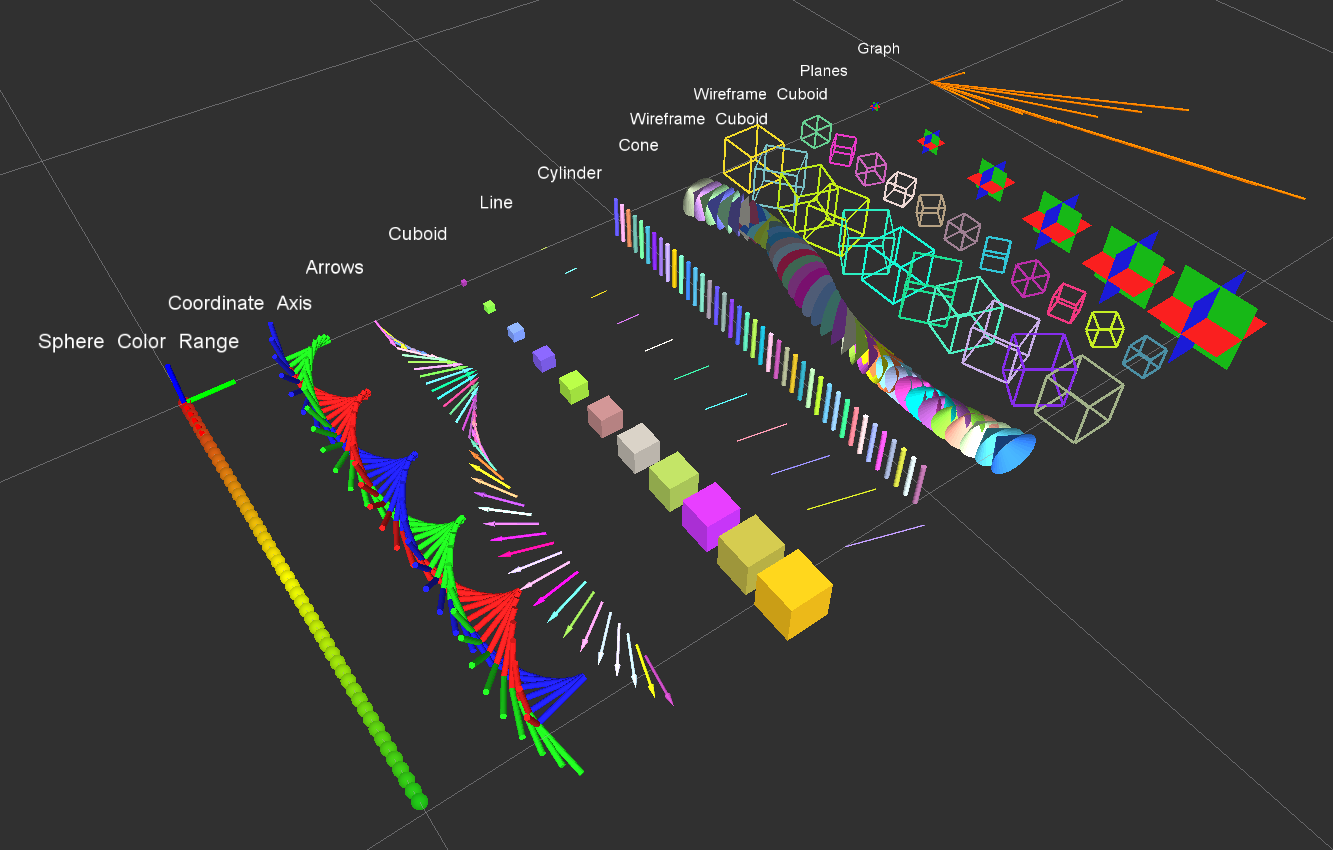
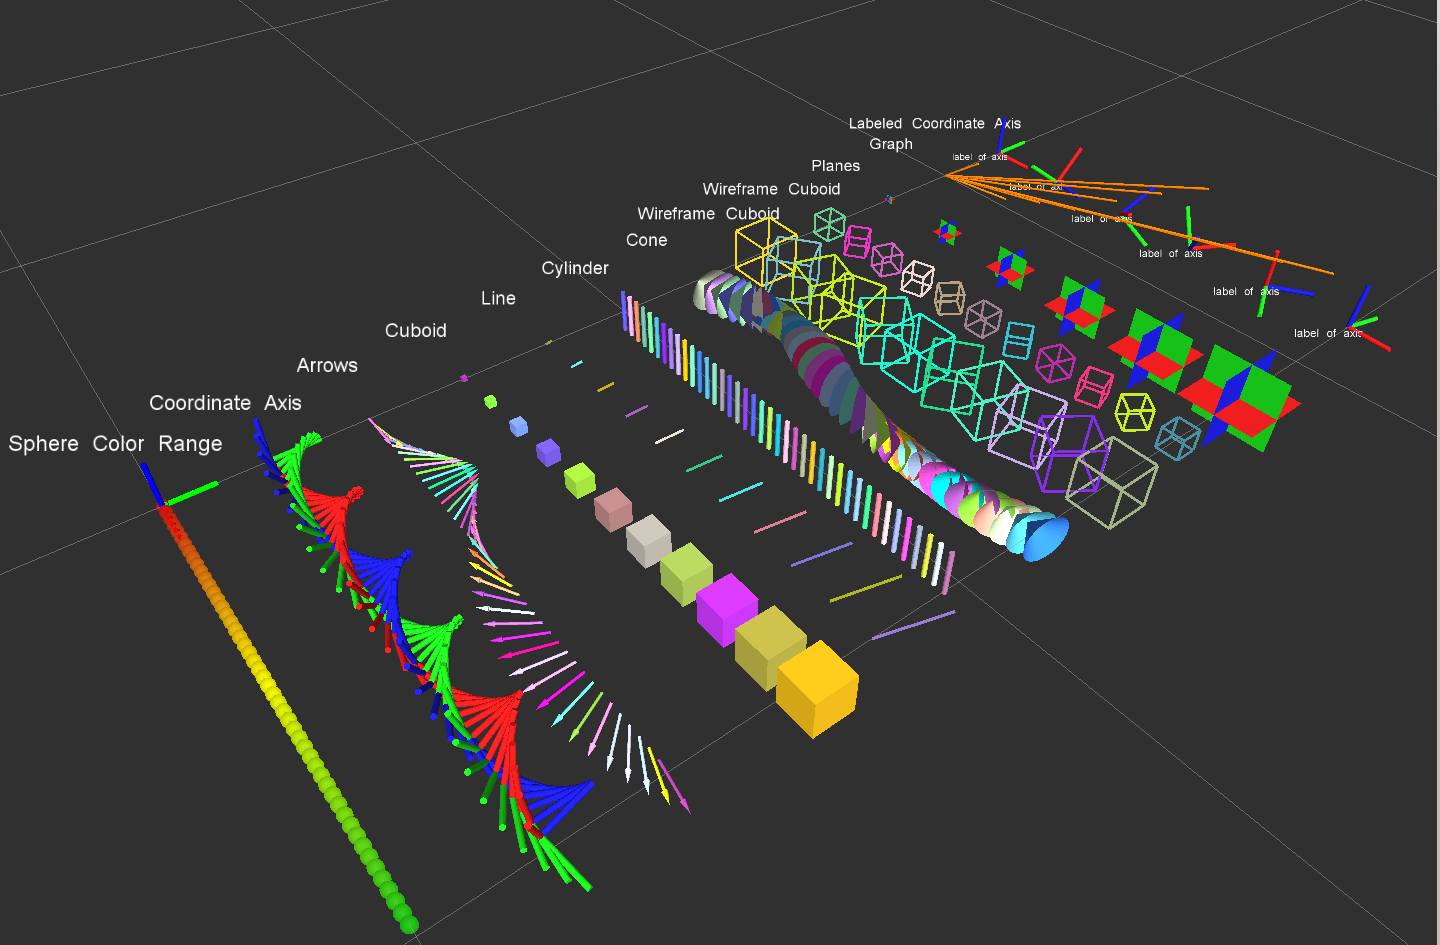
publishAxisLabeled arguments order

diff --git a/src/rviz_visual_tools.cpp b/src/rviz_visual_tools.cpp
@@ -1198,19 +1198,18 @@ bool RvizVisualTools::publishBlock(const Eigen::Affine3d &pose, const colors &co
   return publishBlock(convertPose(pose), color, block_size);
 }
 
-bool RvizVisualTools::publishAxisLabeled(const Eigen::Affine3d &pose, const std::string &label, const colors &color, const scales &scale)
+bool RvizVisualTools::publishAxisLabeled(const Eigen::Affine3d &pose, const std::string &label, const scales &scale, const colors &color)
 {
-  return publishAxisLabeled(convertPose(pose), label, color, scale);
+  return publishAxisLabeled(convertPose(pose), label, scale, color);
 }
 
-bool RvizVisualTools::publishAxisLabeled(const geometry_msgs::Pose &pose, const std::string &label, const colors &color, const scales &scale)
+bool RvizVisualTools::publishAxisLabeled(const geometry_msgs::Pose &pose, const std::string &label, const scales &scale, const colors &color)
 {
   publishAxis(pose, 0.1, 0.01, label);
 
   geometry_msgs::Pose pose_shifted = pose;
   pose_shifted.position.y -= 0.05; // For avoiding overriden Axis and Text
-  publishText(pose_shifted, label, color, scale,
-              false);  
+  publishText(pose_shifted, label, color, scale, false);
   return true;
 }
 

diff --git a/include/rviz_visual_tools/rviz_visual_tools.h b/include/rviz_visual_tools/rviz_visual_tools.h
@@ -656,10 +656,13 @@ public:
    * \param pose - the location to publish the marker with respect to the base frame
    * \param label - name of axis/coordinate frame
    * \param scale - size of axis
+   * \param color - an enum pre-defined name of a color
    * \return true on success
    */
-  bool publishAxisLabeled(const Eigen::Affine3d &pose, const std::string &label, const colors &color = WHITE, const scales &scale = SMALL);
-  bool publishAxisLabeled(const geometry_msgs::Pose &pose, const std::string &label, const colors &color = WHITE, const scales &scale = SMALL);
+  bool publishAxisLabeled(const Eigen::Affine3d &pose, const std::string &label, const scales &scale = SMALL,
+                          const colors &color = WHITE);
+  bool publishAxisLabeled(const geometry_msgs::Pose &pose, const std::string &label, const scales &scale = SMALL,
+                          const colors &color = WHITE);
 
   /**
    * \brief Display a marker of a axis

diff --git a/src/rviz_visual_tools_demo.cpp b/src/rviz_visual_tools_demo.cpp
@@ -323,6 +323,7 @@ public:
     pose1.translation().x() = 0;
     y += space_between_rows;
     pose1.translation().y() = y;
+    pose1.translation().z() = 0;
     step = 0.2;
     for (double i = 0; i <= 1.0; i += step)
     {
